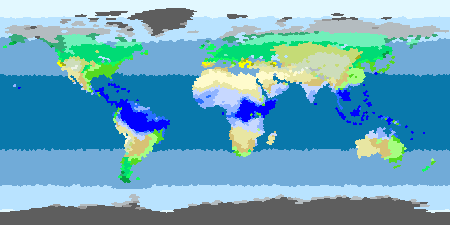
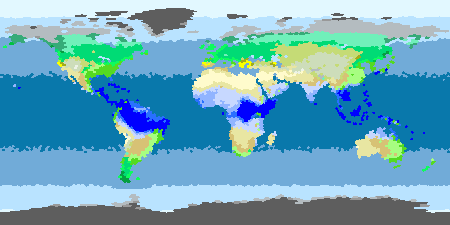
first attempt at wind temperature advection (does not work)

diff --git a/planet/src/main/kotlin/dev/biserman/planet/planet/climate/ClimateSimulation.kt b/planet/src/main/kotlin/dev/biserman/planet/planet/climate/ClimateSimulation.kt
@@ -74,6 +74,7 @@ import dev.biserman.planet.planet.climate.ClimateSimulationGlobals.maxOceanCurre
 import dev.biserman.planet.planet.climate.ClimateSimulationGlobals.maxOceanCurrentTemperatureContinentiality
 import dev.biserman.planet.planet.climate.ClimateSimulationGlobals.maxStartingMoisture
 import dev.biserman.planet.planet.climate.ClimateSimulationGlobals.maxWindBlocking
+import dev.biserman.planet.planet.climate.ClimateSimulationGlobals.maxWindTemperatureBlocking
 import dev.biserman.planet.planet.climate.ClimateSimulationGlobals.minPrecipitation
 import dev.biserman.planet.planet.climate.ClimateSimulationGlobals.minStartingMoisture
 import dev.biserman.planet.planet.climate.ClimateSimulationGlobals.minUpslopeMoisture
@@ -112,6 +113,10 @@ import dev.biserman.planet.planet.climate.ClimateSimulationGlobals.warmCurrentTe
 import dev.biserman.planet.planet.climate.ClimateSimulationGlobals.warmCurrentTemperatureInsolationExp
 import dev.biserman.planet.planet.climate.ClimateSimulationGlobals.warmCurrentTemperatureStrength
 import dev.biserman.planet.planet.climate.ClimateSimulationGlobals.windBlockingSlope
+import dev.biserman.planet.planet.climate.ClimateSimulationGlobals.windTemperatureAdvectionFraction
+import dev.biserman.planet.planet.climate.ClimateSimulationGlobals.windTemperatureAdvectionSteps
+import dev.biserman.planet.planet.climate.ClimateSimulationGlobals.windTemperatureBlockingSlope
+import dev.biserman.planet.planet.climate.ClimateSimulationGlobals.windTemperatureRadiativeRelaxation
 import dev.biserman.planet.planet.climate.ClimateSimulationGlobals.yearLength
 import dev.biserman.planet.planet.climate.OceanCurrents.updateCurrentDistanceMap
 import dev.biserman.planet.utils.AStar
@@ -141,6 +146,7 @@ object ClimateSimulation {
         val moistureFraction: Double,
         val upslopePrecipitation: Double
     )
+    private data class TemperatureRoute(val neighborId: Int, val fraction: Double)
 
     @Suppress("UnusedUnaryOperator")
     val bands = listOf(
@@ -182,6 +188,7 @@ object ClimateSimulation {
     }
 
     fun updatePlanetClimate(planet: Planet) {
+        planet.advectedTemperatureByTile = null
         lateinit var oceanCurrents: List<OceanCurrent>
         val generateOceanCurrentsTime = measureTime {
             oceanCurrents = OceanCurrents.viaEarthlikeHeuristic(planet, 7)
@@ -210,6 +217,9 @@ object ClimateSimulation {
         val simulateMoistureTime = measureTime {
             simulateMoisture(planet)
         }
+        val simulateTemperatureAdvectionTime = measureTime {
+            simulateTemperatureAdvection(planet)
+        }
 
         GD.print("climate update breakdown:")
         GD.print(" - generateOceanCurrents: ${generateOceanCurrentsTime.inWholeMilliseconds}ms")
@@ -218,6 +228,7 @@ object ClimateSimulation {
         GD.print(" - calculateItcz: ${calculateItczTime.inWholeMilliseconds}ms")
         GD.print(" - calculateItczDistanceMap: ${itczDistanceMapTime.inWholeMilliseconds}ms")
         GD.print(" - simulateMoisture: ${simulateMoistureTime.inWholeMilliseconds}ms")
+        GD.print(" - simulateTemperatureAdvection: ${simulateTemperatureAdvectionTime.inWholeMilliseconds}ms")
     }
 
     fun (PlanetTile).calculatePrevailingWind(): Vector3 {
@@ -500,7 +511,79 @@ object ClimateSimulation {
         GD.print(" - smoothMoisture: ${smoothMoistureTime.inWholeMilliseconds}ms")
     }
 
+    /**
+     * Moves air temperature downwind while continually restoring it toward the
+     * tile's locally forced temperature.  The transport part conserves the
+     * unweighted sum of temperatures; radiative relaxation represents local
+     * insolation, moisture, terrain, and ocean-current forcing.
+     */
+    fun simulateTemperatureAdvection(planet: Planet) {
+        val tiles = planet.planetTiles.values.toList()
+        val localTemperature = DoubleArray(planet.topology.tiles.size) { Double.NaN }
+        for (tile in tiles) {
+            localTemperature[tile.tileId] = tile.localAverageTemperature
+        }
+
+        val transportFraction = windTemperatureAdvectionFraction.coerceIn(0.0..1.0)
+        val steps = windTemperatureAdvectionSteps.coerceAtLeast(0)
+        if (transportFraction == 0.0 || steps == 0) {
+            planet.advectedTemperatureByTile = localTemperature
+            return
+        }
+
+        val routes = Array<List<TemperatureRoute>>(planet.topology.tiles.size) { emptyList() }
+        for (tile in tiles) {
+            val neighbors = tile.neighbors
+            val weights = DoubleArray(neighbors.size)
+            val wind = tile.prevailingWind
+            var totalWeight = 0.0
+            for (index in neighbors.indices) {
+                val neighbor = neighbors[index]
+                val rawWeight = if (wind == Vector3.ZERO) {
+                    1.0
+                } else {
+                    val direction = (neighbor.tile.position - tile.tile.position).normalized()
+                    wind.dot(direction) + ClimateRuntimeConfig.backwardsWind
+                }
+                if (rawWeight <= 0.0) continue
+
+                val upslope = max(0.0, tile.slopeAboveWaterTo(neighbor))
+                val terrainFactor = (1 - upslope / windTemperatureBlockingSlope)
+                    .coerceIn(1 - maxWindTemperatureBlocking..1.0)
+                val weight = rawWeight * terrainFactor * tile.tile.borderFor(neighbor.tile).length.pow(0.1)
+                weights[index] = weight
+                totalWeight += weight
+            }
+            routes[tile.tileId] = neighbors.indices.mapNotNull { index ->
+                weights[index].takeIf { it > 0.0 }?.let {
+                    TemperatureRoute(neighbors[index].tileId, it / totalWeight)
+                }
+            }
+        }
+
+        val current = localTemperature.copyOf()
+        val next = DoubleArray(current.size)
+        val relaxation = windTemperatureRadiativeRelaxation.coerceIn(0.0..1.0)
+        repeat(steps) {
+            next.fill(0.0)
+            for (tile in tiles) {
+                val temperature = current[tile.tileId]
+                next[tile.tileId] += temperature * (1 - transportFraction)
+                for (route in routes[tile.tileId]) {
+                    next[route.neighborId] += temperature * transportFraction * route.fraction
+                }
+            }
+            for (tile in tiles) {
+                current[tile.tileId] = lerp(next[tile.tileId], localTemperature[tile.tileId], relaxation)
+            }
+        }
+        planet.advectedTemperatureByTile = current
+    }
+
     val (PlanetTile).averageTemperature: Double
+        get() = planet.advectedTemperatureByTile?.getOrNull(tileId) ?: localAverageTemperature
+
+    private val (PlanetTile).localAverageTemperature: Double
         get() {
             val greenhouseOffset = ClimateRuntimeConfig.greenhouseTemperatureOffset
             val insolationTemperatureSign = ClimateRuntimeConfig.insolationTemperatureSign

diff --git a/planet/src/main/kotlin/dev/biserman/planet/planet/climate/ClimateSimulationGlobals.kt b/planet/src/main/kotlin/dev/biserman/planet/planet/climate/ClimateSimulationGlobals.kt
@@ -77,6 +77,17 @@ object ClimateSimulationGlobals {
     var maxWindBlocking = 0.9999
     var backwardsWind = 0.02
 
+    // WIND TEMPERATURE ADVECTION
+
+    // Fraction of a tile's air temperature transported downwind per step.
+    var windTemperatureAdvectionFraction = 0.10
+    var windTemperatureAdvectionSteps = 3
+
+    // Fraction restored toward each tile's local radiative equilibrium per step.
+    var windTemperatureRadiativeRelaxation = 0.20
+    var windTemperatureBlockingSlope = 1500.0
+    var maxWindTemperatureBlocking = 0.40
+
     // TEMPERATURE
 
     var landNowVsAnnualInsolationLerp = 0.0

diff --git a/planet/src/main/kotlin/dev/biserman/planet/planet/Planet.kt b/planet/src/main/kotlin/dev/biserman/planet/planet/Planet.kt
@@ -129,6 +129,13 @@ class Planet(val seed: Int, val size: Int) {
     var climateMap: Map<Int, ClimateDatum> = mapOf()
     var itczDistanceMap: Map<Int, Int> = mapOf()
 
+    /**
+     * The current climate sample's air temperature after wind transport.  This is
+     * derived state, so it must not be saved with the planet.
+     */
+    @get:JsonIgnore
+    var advectedTemperatureByTile: DoubleArray? = null
+
     val warpNoise by memo({ tectonicAge }) {
         VectorWarpNoise(
             tectonicAge,
